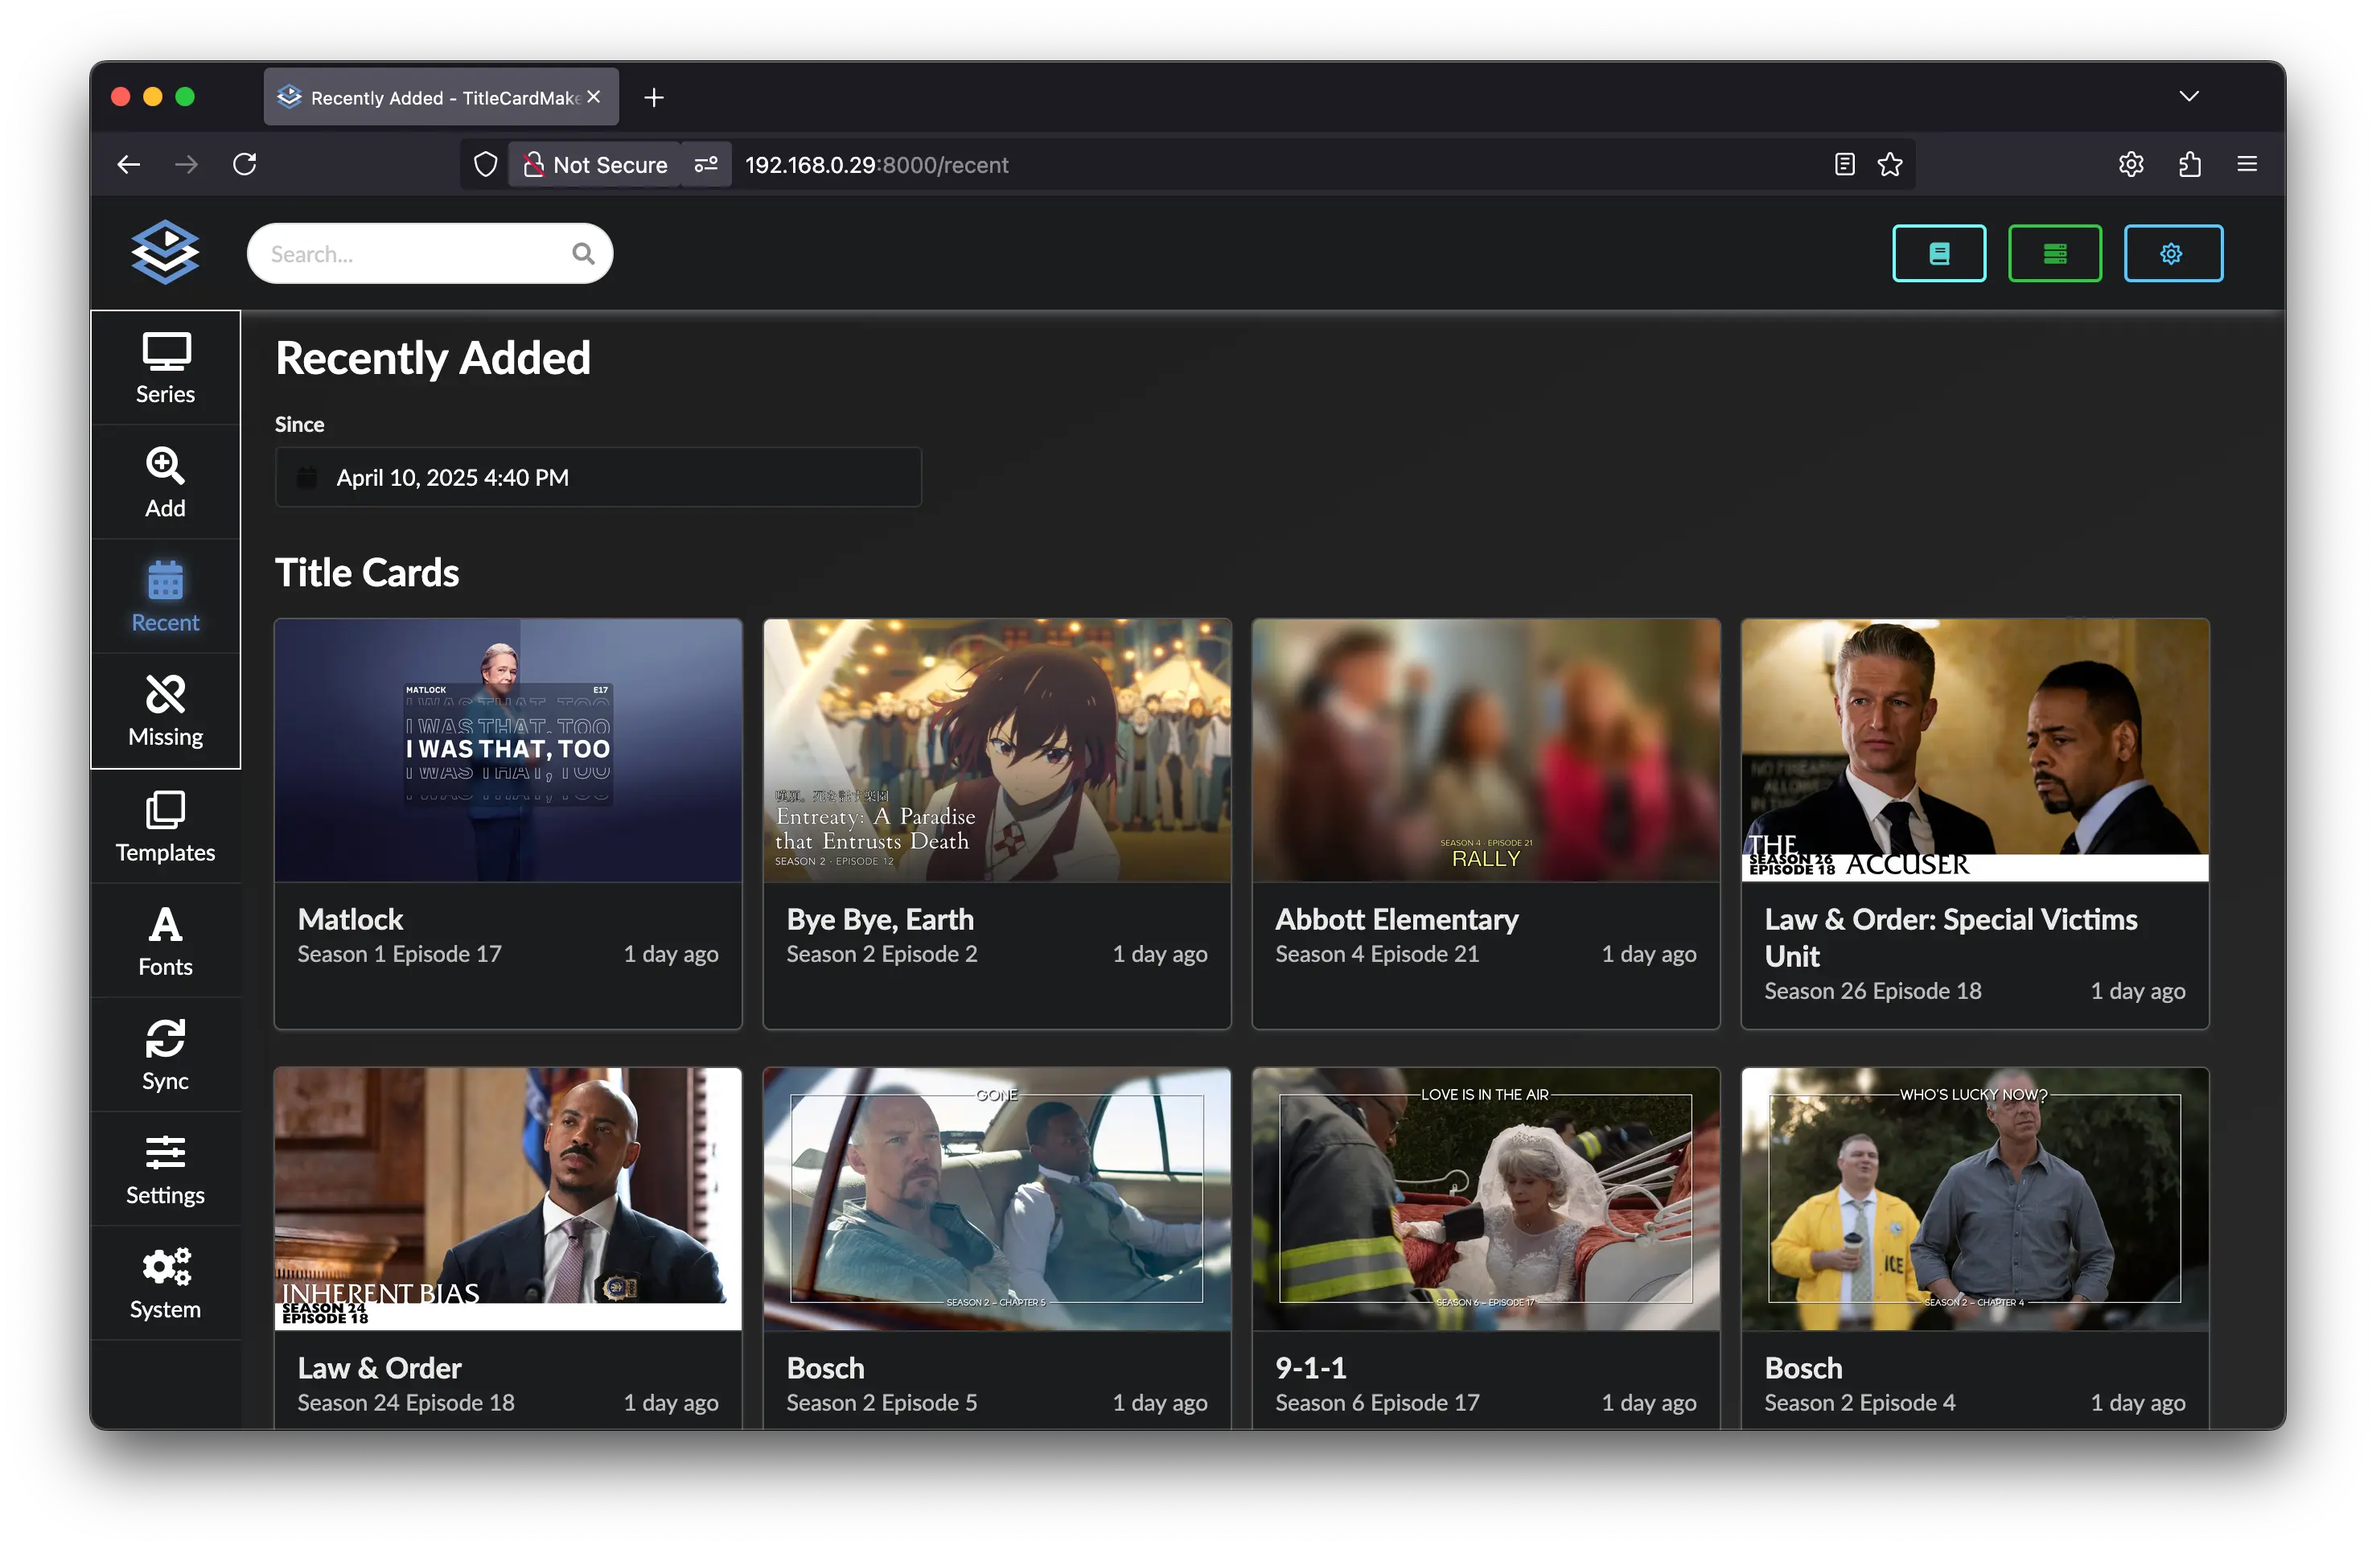
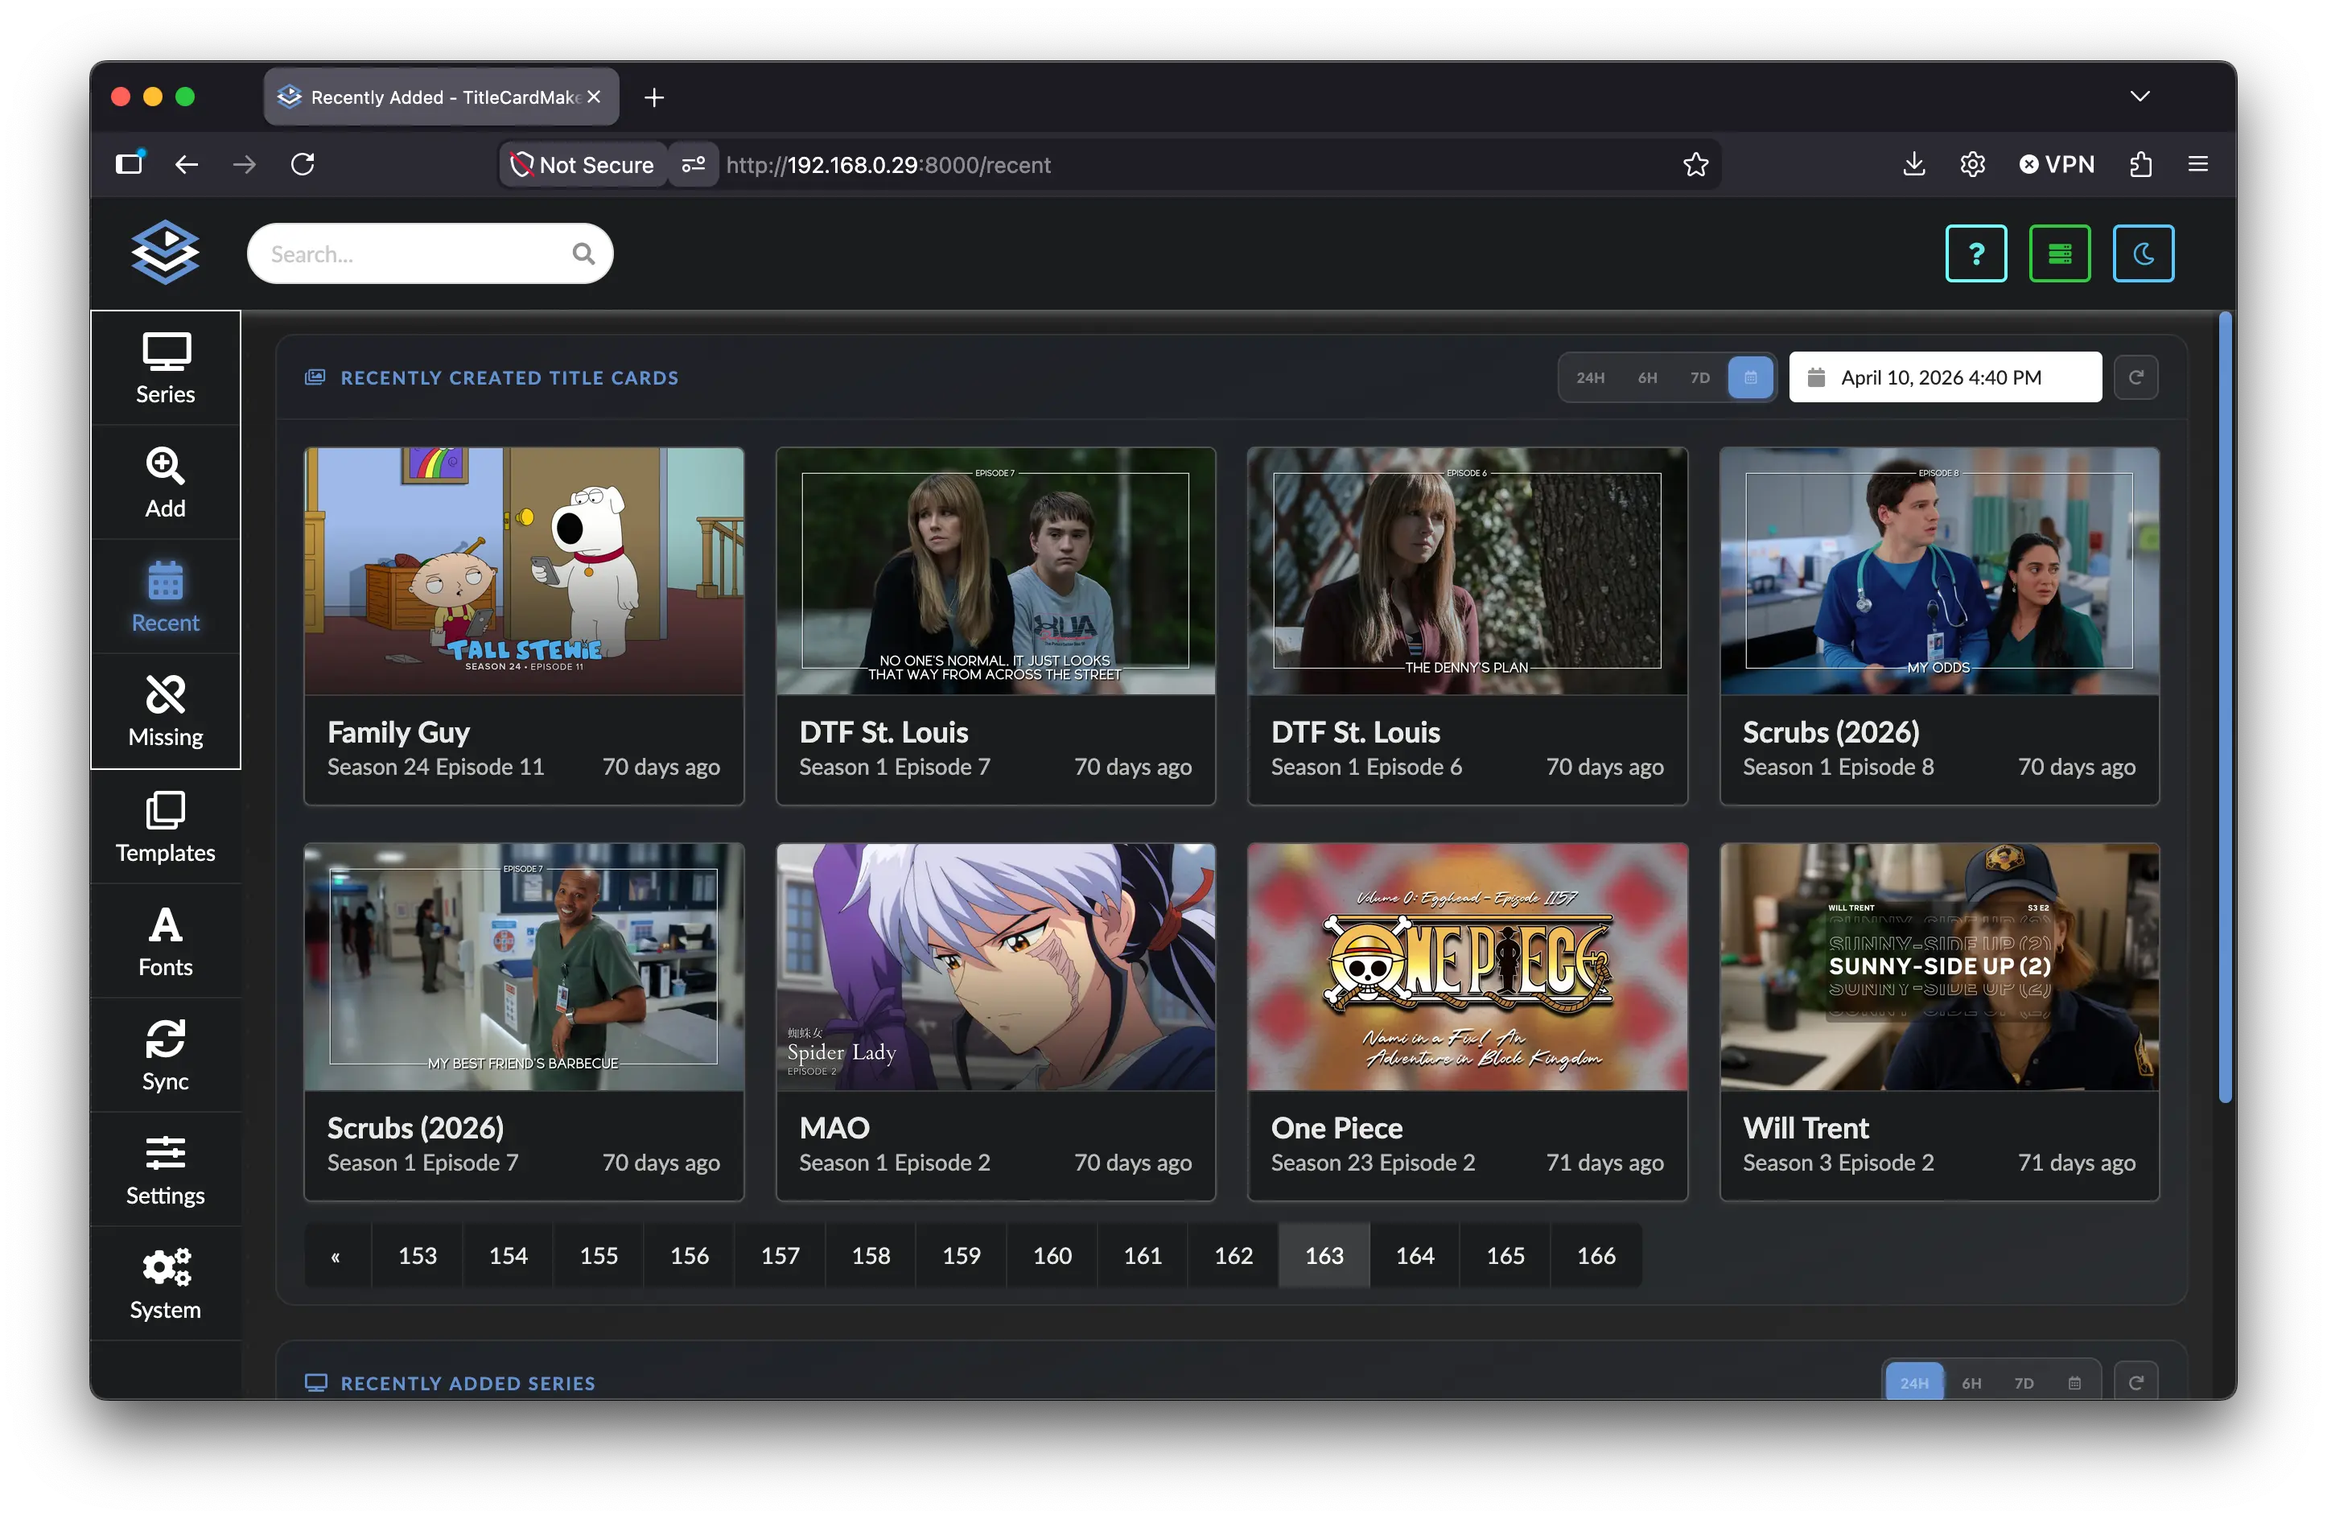
[109] Finalize recently added documentation

diff --git a/docs/user_guide/recent.md b/docs/user_guide/recent.md
@@ -1,29 +1,62 @@
 ---
 title: Recently Added
 description: >
-    Viewing recently added Title Cards.
+    Viewing recently created Title Cards and recently added Series.
 ---
 
 # Recently Added
 
-The Recently Added page displays Title Cards that have been recently created.
-This page can be accessed from the sidebar under `Series`, as well as at the
-`/recent` URL
+The Recently Added page helps you review new activity in TitleCardMaker. It
+shows Title Cards that were recently created and Series that were recently
+added. Access it from the sidebar via the `Recent` item, or at the `/recent`
+URL.
 
 ![Recently Added Page](./assets/recent-light.webp#only-light){.no-lightbox}
 ![Recently Added Page](./assets/recent-dark.webp#only-dark){.no-lightbox}
 
-The page shows a grid of recently created Title Cards, sorted by creation time
-with the newest Cards appearing first. Each Card displays:
+The page is split into two panels, each with its own time filter, refresh
+button, and pagination.
 
+## Recently Created Title Cards
+
+This panel lists Title Cards sorted by creation time, with the newest Cards
+first. Each Card shows:
+
+- A thumbnail of the Title Card;
 - The Series name;
-- The Episode's season and episode number; and
-- When the Title Card was created
+- The Episode's season and episode number (or `No associated episode` if none
+  is linked); and
+- When the Title Card was created, shown as a relative time (for example,
+  `13 minutes ago`).
 
-This provides an easy way to review recently created Cards and verify they look
-correct. Clicking on any Card will take you to that Series' page where you can
-make any needed adjustments.
+Clicking a Card opens that Series' page where you can review or adjust it.
 
-By default, this page updates to only display the Cards created from the last
-time the page was visited. This interval can be adjusted by clicking the `Since`
-calendar at the top of the page and selecting a time.
+## Recently Added Series
+
+This panel lists Series sorted by when they were added, with the newest Series
+first. Each entry shows:
+
+- The Series poster;
+- The Series name;
+- When the Series was added, shown as a relative time; and
+- How many Title Cards exist for that Series.
+
+Clicking a Series opens its Series page.
+
+## Time Filters
+
+Each panel has its own time filter at the top of the section header. By
+default, both panels show items from the last **24 hours**.
+
+Use the preset buttons to change the range:
+
+- **6h** — last 6 hours
+- **24h** — last 24 hours
+- **7d** — last 7 days
+
+Click the calendar icon to pick a custom start date. When you open the custom
+date picker, it defaults to the last time you visited this page. Changing the
+date reloads that panel immediately.
+
+Selecting a preset button reloads that panel right away. Use the refresh
+button (↻) beside the filter to reload the panel without changing the range.
